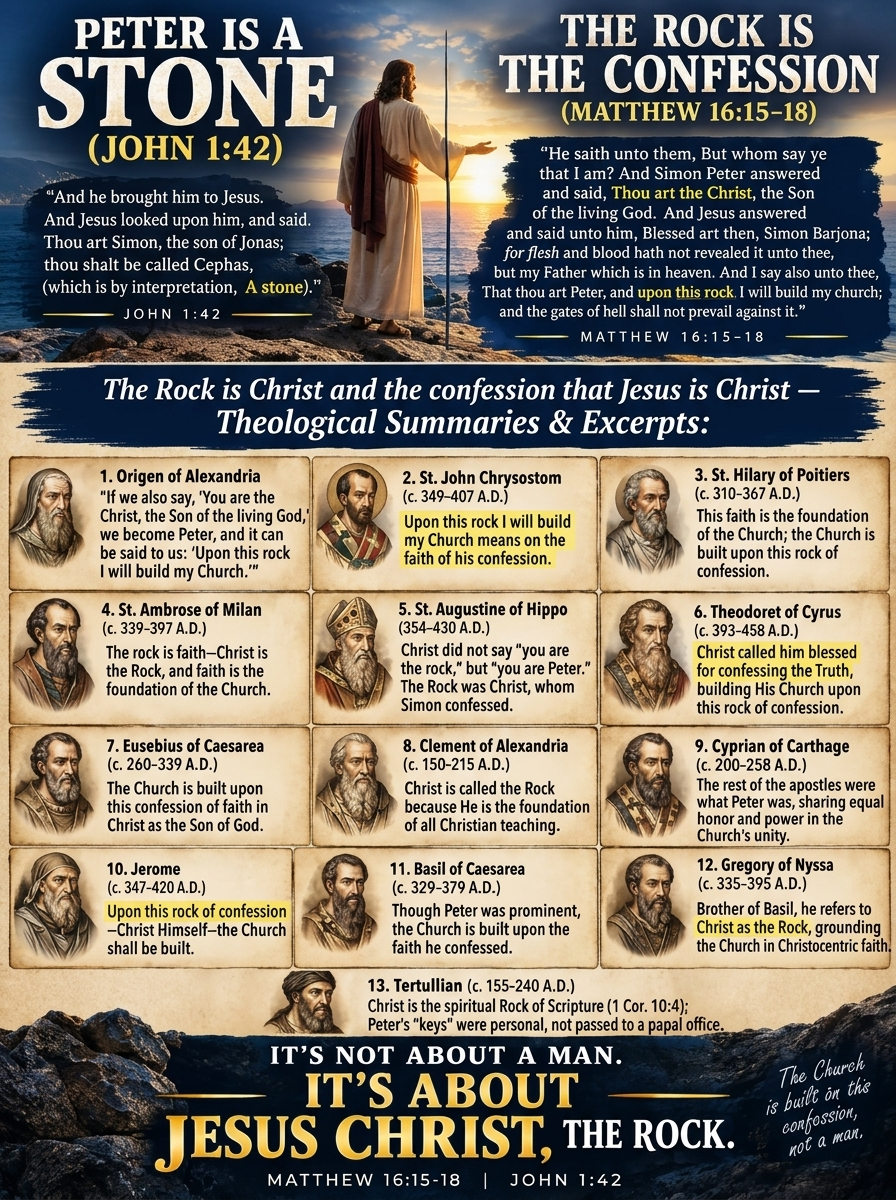
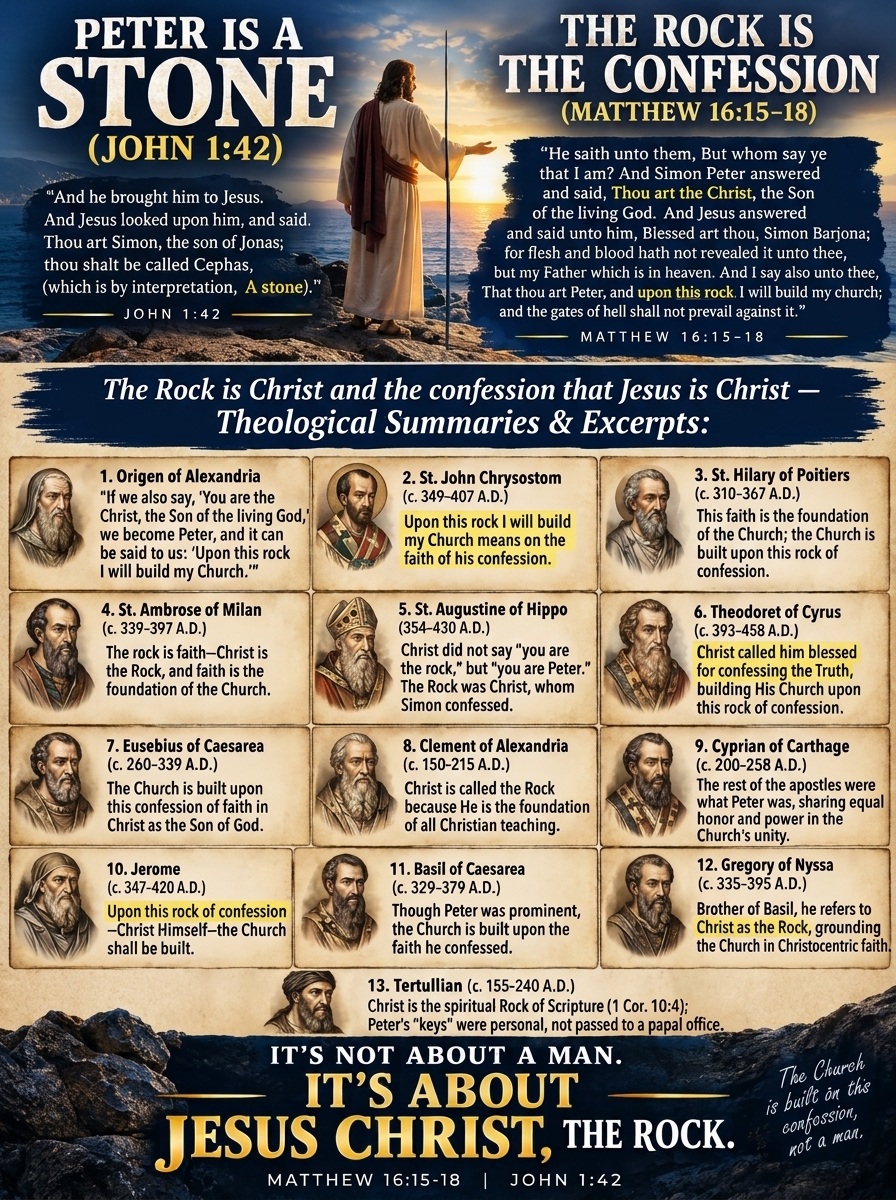
Meme: Peter is a stone, corrected (Blessed art thou) (v2.58) (#139)
Claude-Session: https://claude.ai/code/session_01Kc3odMgE3hiiWQzgw9yWwt

Changed region(s): [[0.5625, 0.185, 0.9375, 0.2158]]

diff --git a/studies/sw.js b/studies/sw.js
@@ -3,7 +3,7 @@
    request always checks with the server (cache: 'no-cache'), so the browser's own cache of
    up to four hours can't hold back an update.
    Only touches caches named "wews-studies-*" (other apps on this site have their own). */
-const CACHE = 'wews-studies-v2.57';
+const CACHE = 'wews-studies-v2.58';
 const SHELL = ['./', 'index.html', 'app.css', 'app.js', 'manifest.json', 'data/books.json', 'data/lessons.json', 'data/topics.json', 'heaven.html',
   '../img/logo-96.jpg', '../img/logo-256.jpg', '../img/icon-192.png'];
 

diff --git a/studies/app.js b/studies/app.js
@@ -7,7 +7,7 @@
 
   const KJV_APP = 'https://fbckjv.app/KJVBible/';
   // Shown on the About page. Started at v1.17 (after 17 merged updates); each merged update adds one.
-  const APP_VERSION = '2.57', APP_DATE = '2026-11-20';
+  const APP_VERSION = '2.58', APP_DATE = '2026-11-20';
   const view = document.getElementById('view');
   const crumbs = document.getElementById('crumbs');
   let INDEX = null;
